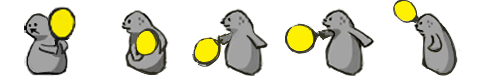
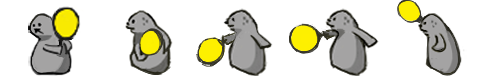
Replace left volley sprite and set stage 1 fatigue shots to 80% speed

Changed region(s): [[0.25, 0.1053, 0.8125, 1.0], [0.0312, 0.0789, 0.1875, 1.0], [0.8125, 0.0, 0.9688, 1.0]]

diff --git a/game/tennis/main.js b/game/tennis/main.js
@@ -782,8 +782,10 @@ class CpuPlayer {
   const aimX=Math.max(39,Math.min(217,128+contact*52+(this.targetX-this.x)*0.28));
   const profile=SHOT_PROFILES[quality]??SHOT_PROFILES.normal;
   // ステージ1の10ラリー後、5球分は移動速度だけでなく返球もゆっくりにする。
-  // 飛行時間を2倍にして水平速度を約半分にし、重力を1/4にして低い弾道を保つ。
-  ball.launch(aimX,176,tired?profile.ticks*2:profile.ticks,tired?0.0045:profile.gravity);
+  // 飛行時間を約1.25倍にして速度を通常の約80%にし、低い弾道を保つ。
+  const fatigueTicks = Math.round(profile.ticks / 0.8);
+  const fatigueGravity = 0.018 * Math.pow(profile.ticks / fatigueTicks, 2);
+  ball.launch(aimX,176,tired?fatigueTicks:profile.ticks,tired?fatigueGravity:profile.gravity);
   if(tired)this.fatigueShots--;
   ball.message=tired?'CPU息切れ：低い返球':quality==='smash'?'CPUスマッシュ':quality==='float'?'CPU浮き球':
    quality==='critical'?'CPUクリティカル':'CPU返球';

diff --git a/game/tennis/index.html b/game/tennis/index.html
@@ -17,7 +17,7 @@
 </head>
 <body>
   <div id="game-container" data-screen="title">
-    <p class="version">SEAL TENNIS · ステージ3確認版 44</p>
+    <p class="version">SEAL TENNIS · ステージ3確認版 45</p>
     <canvas id="gameCanvas" width="512" height="640"></canvas>
     
     <div id="stage-select" aria-label="テスト用ステージ選択">
@@ -48,7 +48,7 @@
     </div>
   </div>
 
-  <script defer src="main.js?v=20261014-stage3-44"></script>
+  <script defer src="main.js?v=20261014-stage3-45"></script>
 </body>
 </html>
 
